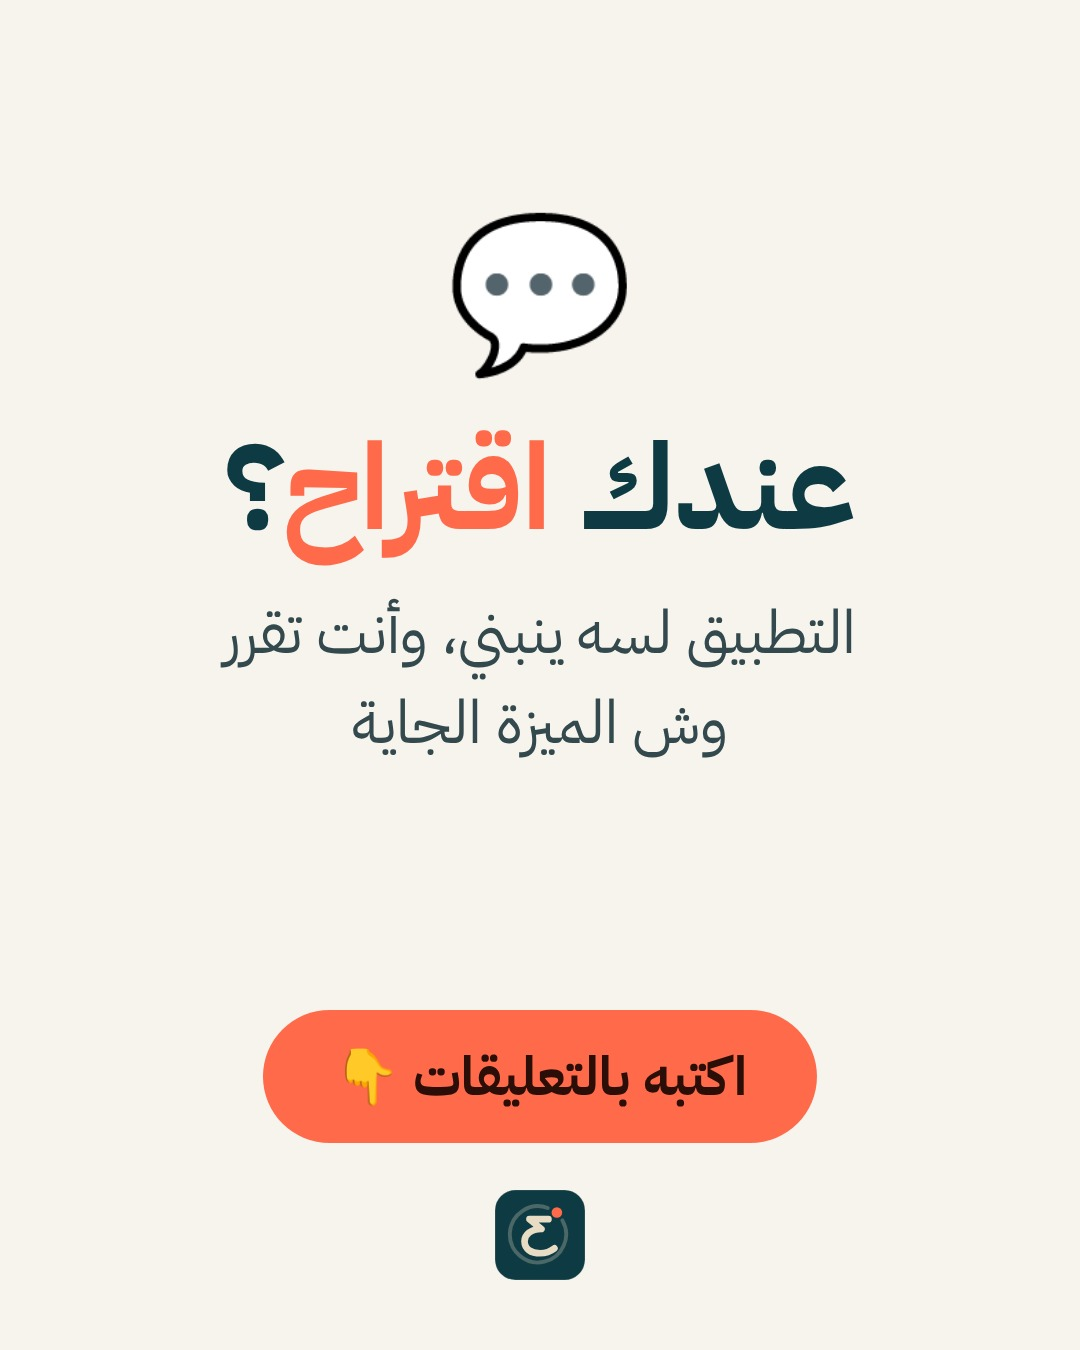
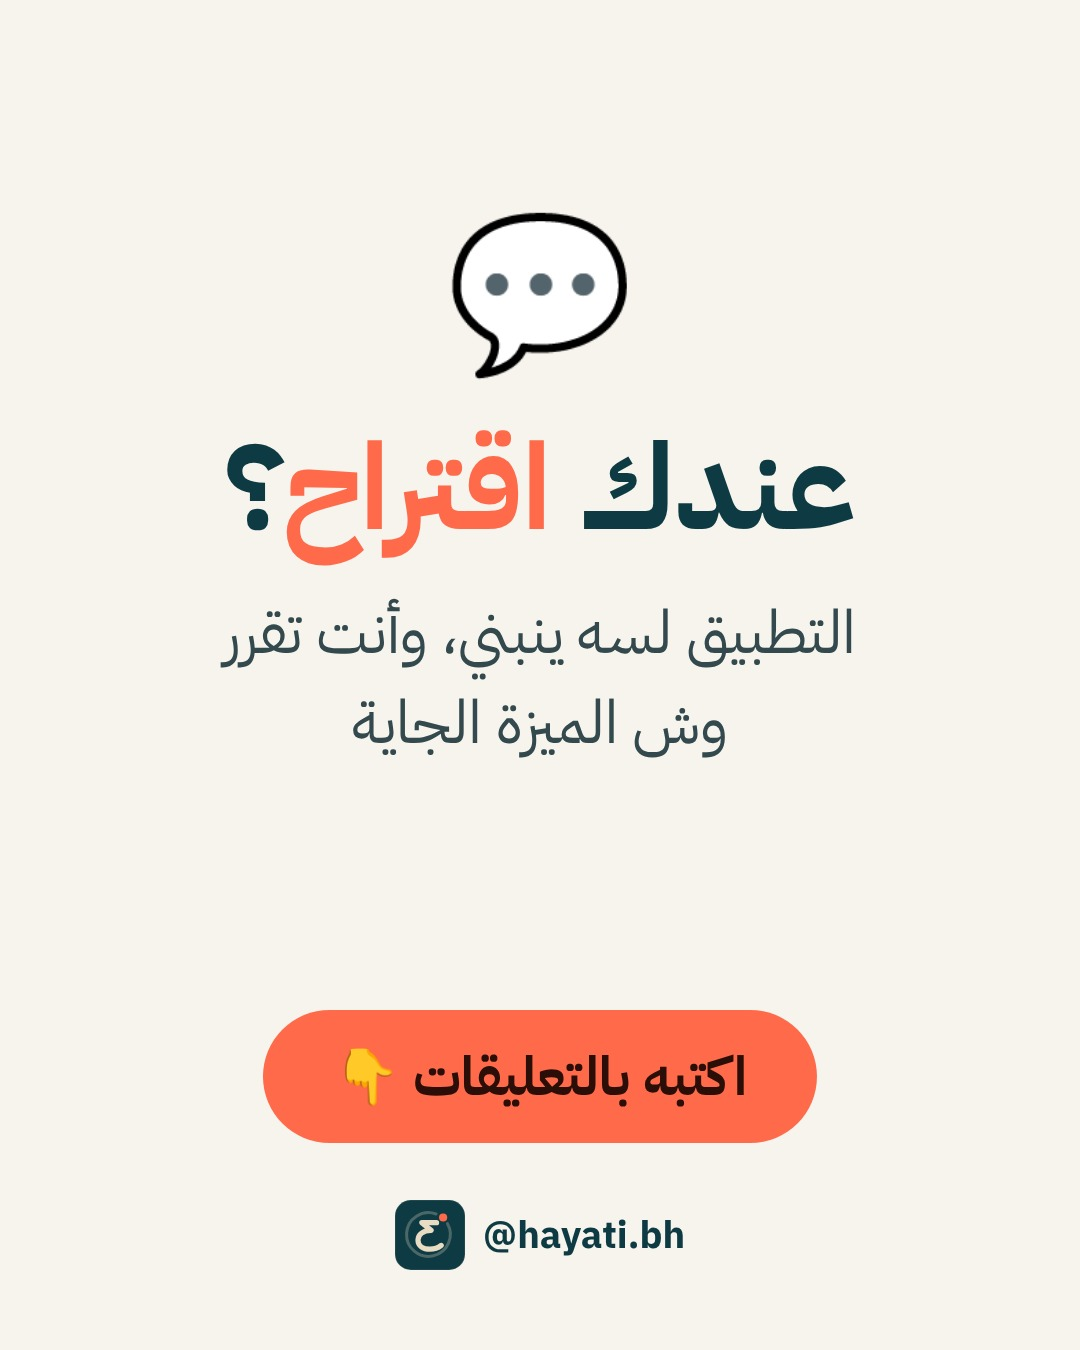
Instagram kit: @hayati.bh handle on posts, bio and copy for everyone
Claude-Session: https://claude.ai/code/session_01AXqw1919FcrLaaxuJmUf2G

Changed region(s): [[0.3667, 0.8711, 0.6417, 0.9644]]

diff --git a/videos/hayati-insta/build.js b/videos/hayati-insta/build.js
@@ -46,10 +46,11 @@ for (const [k, ic] of HL) PAGES['highlight-' + k + '.png'] = [1080, 1920, BASE(1
 PAGES['post-1-intro.jpg'] = [1080, 1350, BASE(1080, 1350) + `<div class="sea"></div>
 <svg style="position:absolute;left:50%;top:170px;width:300px;height:300px;margin-left:-150px" viewBox="0 0 512 512">${MARK.slice(MARK.indexOf('>') + 1, -6)}</svg>
 <div style="position:absolute;left:0;right:0;top:520px;text-align:center"><div style="font-size:190px;line-height:1">حياتي</div><div style="font-size:58px;font-weight:400;opacity:.85;margin-top:28px">كل يومك بمكان واحد</div></div>
-<div style="position:absolute;left:0;right:0;top:880px;text-align:center;font-size:44px;font-weight:400;line-height:1.6;opacity:.9">مصاريفك · دراستك · صلاتك · تمرينك · نومك</div>
-<div style="position:absolute;left:50%;top:1090px;transform:translateX(-50%);padding:16px 44px;border-radius:999px;border:3px solid rgba(232,220,196,.45);font-size:44px;white-space:nowrap">🛠 قيد التطوير · نسخة تجريبية</div>
+<div style="position:absolute;left:0;right:0;top:880px;text-align:center;font-size:44px;font-weight:400;line-height:1.6;opacity:.9">مصاريفك · دراستك · شغلك · صلاتك · تمرينك</div>
+<div style="position:absolute;left:50%;top:1060px;transform:translateX(-50%);padding:16px 44px;border-radius:999px;border:3px solid rgba(232,220,196,.45);font-size:44px;white-space:nowrap">🛠 قيد التطوير · نسخة تجريبية</div>
+<div style="position:absolute;left:0;right:0;top:1210px;text-align:center;font-size:38px;font-weight:400;opacity:.7;direction:ltr">@hayati.bh</div>
 <div class="grain"></div>`];
-const FEAT = [['search', '🔎', 'تبحث عن أي محل', 'ويعطيك مجموع اللي صرفته'], ['chart', '📈', 'يتوقع آخر الشهر', 'قبل لا تتعدى الميزانية'], ['award', '🧤', 'جاهزيتك للتمرين', 'من نومك ونبضك بالساعة'], ['message', '💬', 'رسالة البنك', 'تتسجل مصروف بروحها'], ['moon', '🕌', 'الصلاة بالتقويم', 'ينبهك والتطبيق مسكّر']];
+const FEAT = [['search', '🔎', 'تبحث عن أي محل', 'ويعطيك مجموع اللي صرفته'], ['chart', '📈', 'يتوقع آخر الشهر', 'قبل لا تتعدى الميزانية'], ['award', '💪', 'جاهزيتك للتمرين', 'من نومك ونبضك بالساعة'], ['message', '💬', 'رسالة البنك', 'تتسجل مصروف بروحها'], ['moon', '🕌', 'الصلاة بالتقويم', 'ينبهك والتطبيق مسكّر']];
 PAGES['post-2-features.jpg'] = [1080, 1350, BASE(1080, 1350) + `<div class="sea"></div>
 <div style="position:absolute;left:80px;right:80px;top:110px;font-size:92px;line-height:1.1">وش يسوي <span class="c">حياتي</span>؟</div>
 <div style="position:absolute;left:80px;right:80px;top:290px;display:grid;gap:26px">${FEAT.map(([, e, a, b]) => `<div style="display:flex;align-items:center;gap:34px;padding:26px 34px;border-radius:36px;background:rgba(232,220,196,.08);border:2px solid rgba(232,220,196,.14)"><div style="font-size:72px;width:96px;text-align:center">${e}</div><div><div style="font-size:52px">${a}</div><div style="font-size:38px;font-weight:400;opacity:.75">${b}</div></div></div>`).join('')}</div>
@@ -59,7 +60,7 @@ PAGES['post-3-ideas.jpg'] = [1080, 1350, BASE(1080, 1350) + `<div style="positio
 <div style="font-size:120px;line-height:1.15;margin-top:50px">عندك <span class="c">اقتراح</span>؟</div>
 <div style="font-size:60px;font-weight:400;margin-top:30px;color:#33494D">التطبيق لسه ينبني، وأنت تقرر<br>وش الميزة الجاية</div></div>
 <div style="position:absolute;left:50%;top:1010px;transform:translateX(-50%);padding:26px 70px;border-radius:999px;background:var(--coral);color:#2A0E07;font-size:54px;white-space:nowrap">اكتبه بالتعليقات 👇</div>
-<svg style="position:absolute;left:50%;top:1190px;width:90px;height:90px;margin-left:-45px" viewBox="0 0 512 512">${MARK.slice(MARK.indexOf('>') + 1, -6)}</svg>`];
+<div style="position:absolute;left:0;right:0;top:1200px;display:flex;justify-content:center;align-items:center;gap:18px;color:var(--sea);font-size:38px;direction:ltr"><svg style="width:70px;height:70px" viewBox="0 0 512 512">${MARK.slice(MARK.indexOf('>') + 1, -6)}</svg>@hayati.bh</div>`];
 
 (async () => {
   const b = await chromium.launch({ executablePath: '/opt/pw-browsers/chromium' });

diff --git a/videos/hayati-insta/README.md b/videos/hayati-insta/README.md
@@ -1,21 +1,14 @@
 # حساب إنستقرام «حياتي»
 
 ## اسم الحساب (username)
-| الترتيب | الاسم | ليش |
-|---|---|---|
-| 1 ⭐ | **@hayati.app** | قصير، ينكتب بالإنقليزي بسهولة، وواضح إنه تطبيق |
-| 2 | @hayati.bh | يربطه بالبحرين |
-| 3 | @hayatiapp.bh | لو الأول والثاني محجوزين |
-| 4 | @7ayati.app | كتابة «عربيزي» معروفة بالخليج |
+**@hayati.bh** ✅ (الاختيار النهائي). بدائل لو احتجت: `@gethayati` · `@usehayati` · `@hayati.hq`
 
-> ما أقدر أشيّك من هني إذا الاسم متاح. جرّبهم بالترتيب بإنستقرام ← تعديل الملف ← اسم المستخدم.
-
-**الاسم الظاهر (Name):** `حياتي | Hayati`. إنستقرام يبحث بهالحقل، فيطلع للي يكتب «حياتي» أو «hayati».
+**الاسم الظاهر (Name):** `Hayati | حياتي`. إنستقرام يبحث بهالحقل، فيطلع للي يكتب «حياتي» أو «hayati».
 
 ## البايو (150 حرف)
 ```
-تطبيق واحد ليومك كله 📱
-💸 مصاريفك · 📚 دراستك · 🕌 صلاتك · 🧤 تمرينك
+تطبيق بحريني ليومك كله 📱🇧🇭
+💸 مصاريفك · 📚 دراستك · 💼 شغلك · 🕌 صلاتك
 🛠 قيد التطوير. اقتراحك يصير ميزة 👇
 ```
 **الرابط:** رابط Vercel بعد ما تطفي Deployment Protection.
